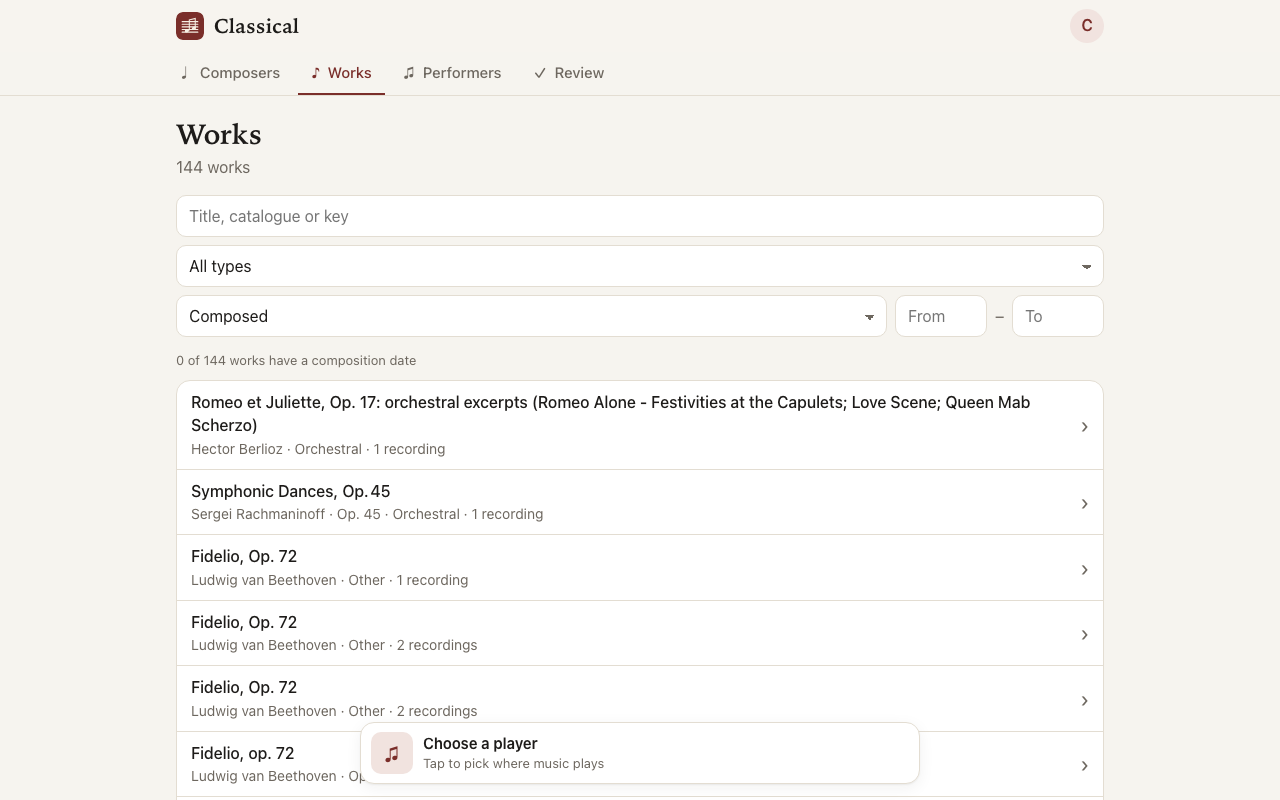
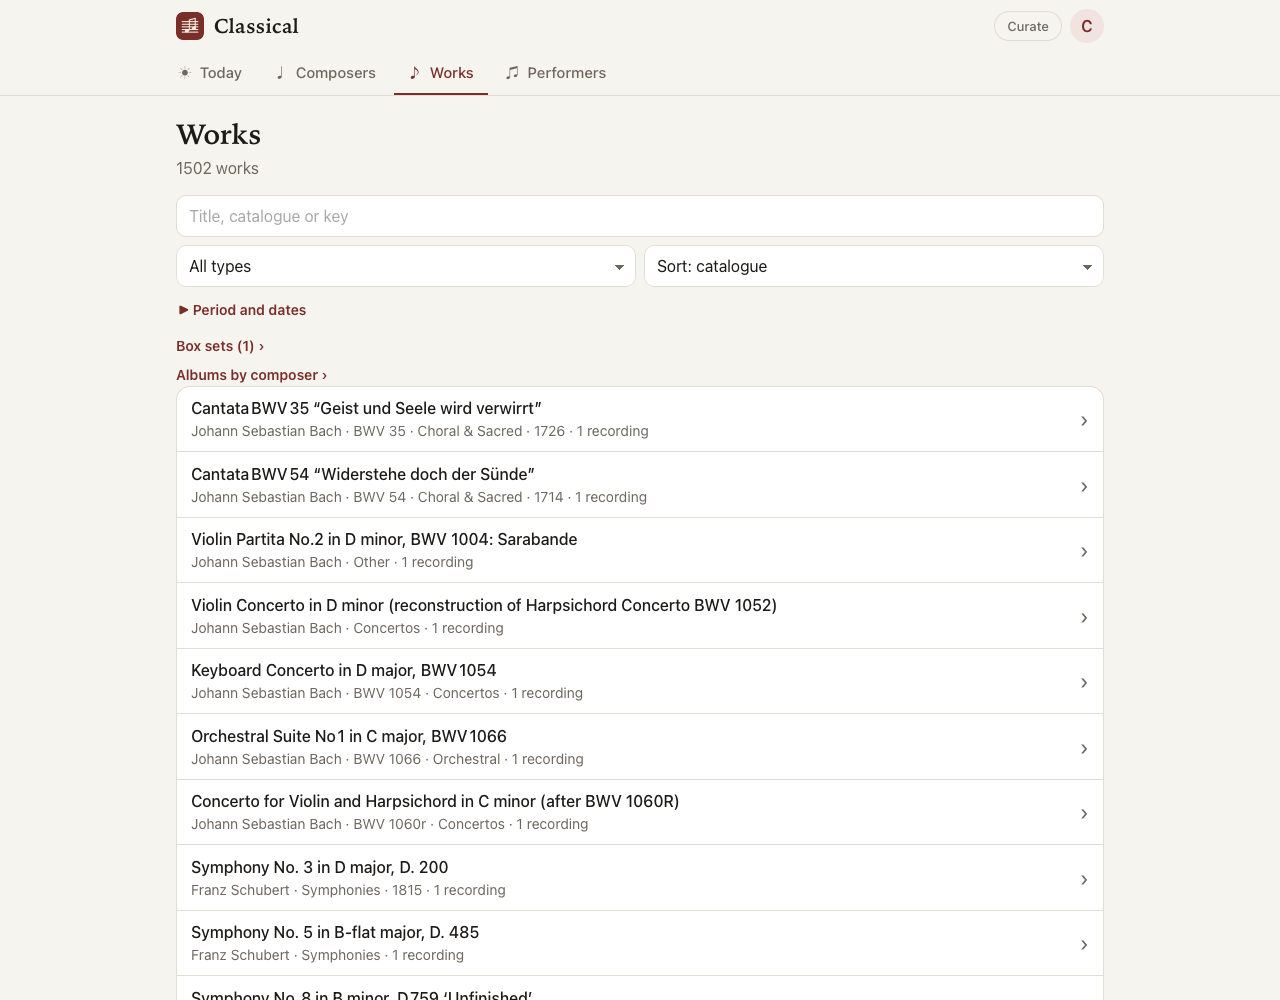
Screenshots: liner notes, Today with play buttons, simpler Works page
Claude-Session: https://claude.ai/code/session_01T9Qmxp8AJdukHg5Pfqq7kp

diff --git a/README.md b/README.md
@@ -100,6 +100,10 @@ so artist photos show initials for now.
 Screenshots are from a synthetic test library and a real personal library, on desktop and iPhone.
 
 <p>
+  <img src="docs/screenshots/companion/desktop-light-work-fidelio-liner-notes.png" width="400" alt="Work page: Fidelio, with Play whole work, dates, a Grammy note and liner notes from Wikipedia">
+  <img src="docs/screenshots/companion/desktop-light-today.png" width="400" alt="Today: on this day and for the season, each row with a play button">
+</p>
+<p>
   <img src="docs/screenshots/companion/desktop-light-work-fidelio.png" width="400" alt="Work page: Fidelio, with Play whole work, filters and 29 recordings">
   <img src="docs/screenshots/companion/desktop-light-recording-klemperer-awards.png" width="400" alt="Recording page with movements, credits and a Grammy badge">
 </p>
@@ -112,6 +116,8 @@ Screenshots are from a synthetic test library and a real personal library, on de
   <img src="docs/screenshots/companion/desktop-ma-browse-classical.png" width="400" alt="MA Browse, Classical: Composers, Works and Review folders">
 </p>
 <p>
+  <img src="docs/screenshots/companion/iphone-light-work-fidelio-liner-notes.png" width="200" alt="Liner notes on iPhone: Fidelio">
+  <img src="docs/screenshots/companion/iphone-light-works.png" width="200" alt="Works on iPhone: dates folded under Period and dates, Curate button in the header">
   <img src="docs/screenshots/companion/iphone-dark-today.png" width="200" alt="Today tab on iPhone, dark theme: premieres on this day">
   <img src="docs/screenshots/companion/iphone-light-review-triage.png" width="200" alt="Review triage on iPhone: one card for an ambiguous composer credit">
 </p>
